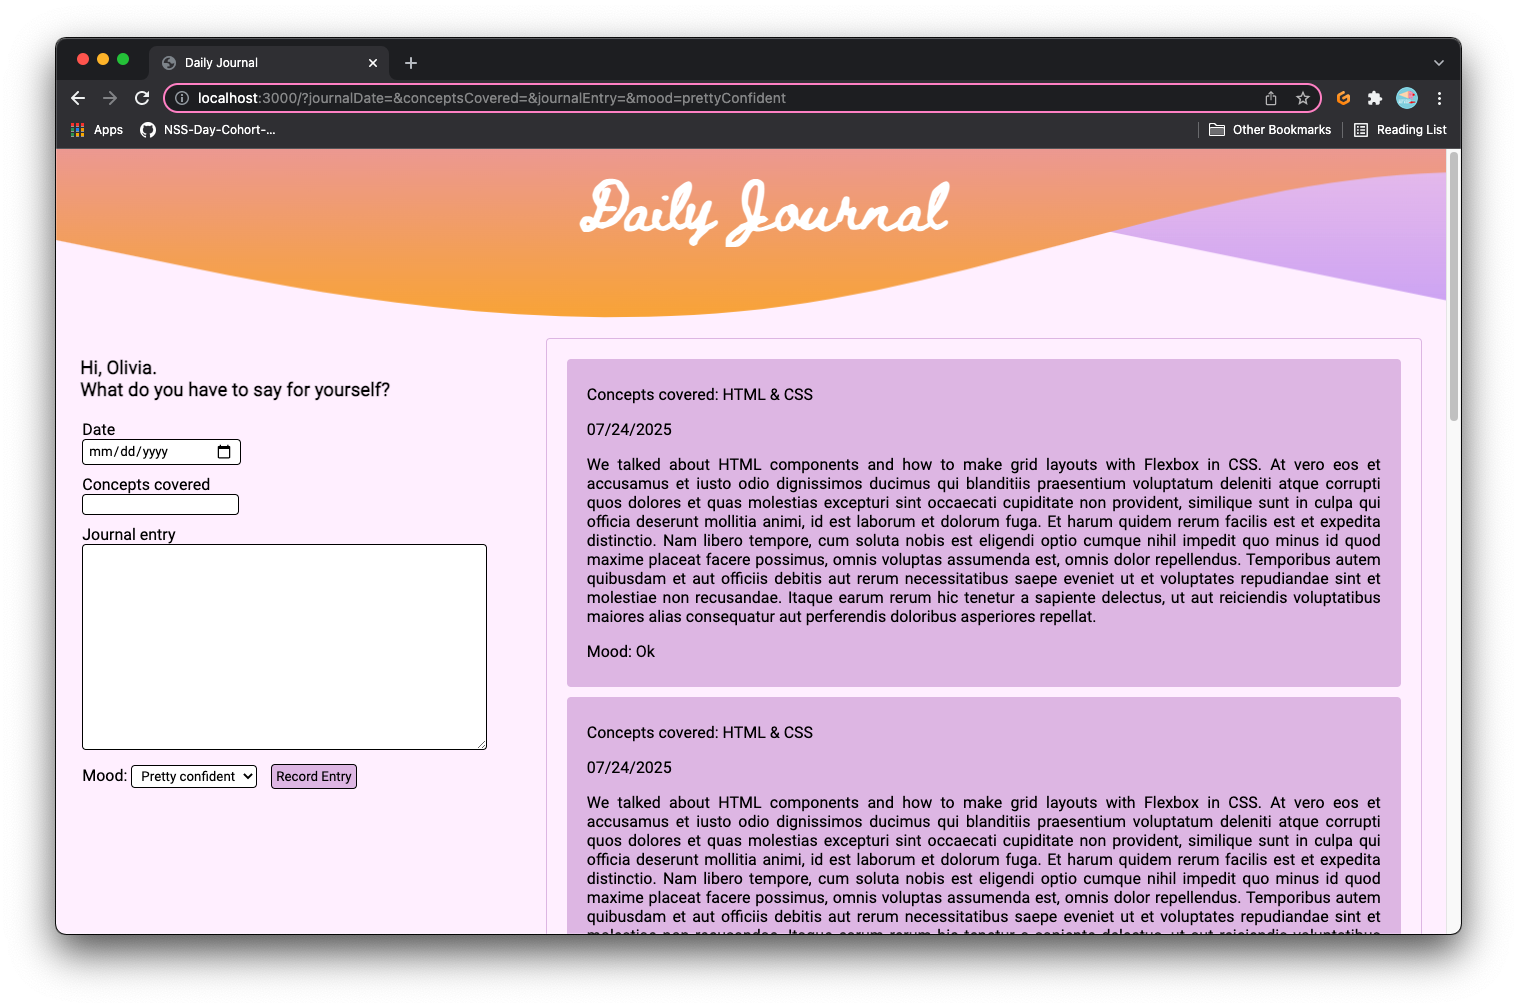
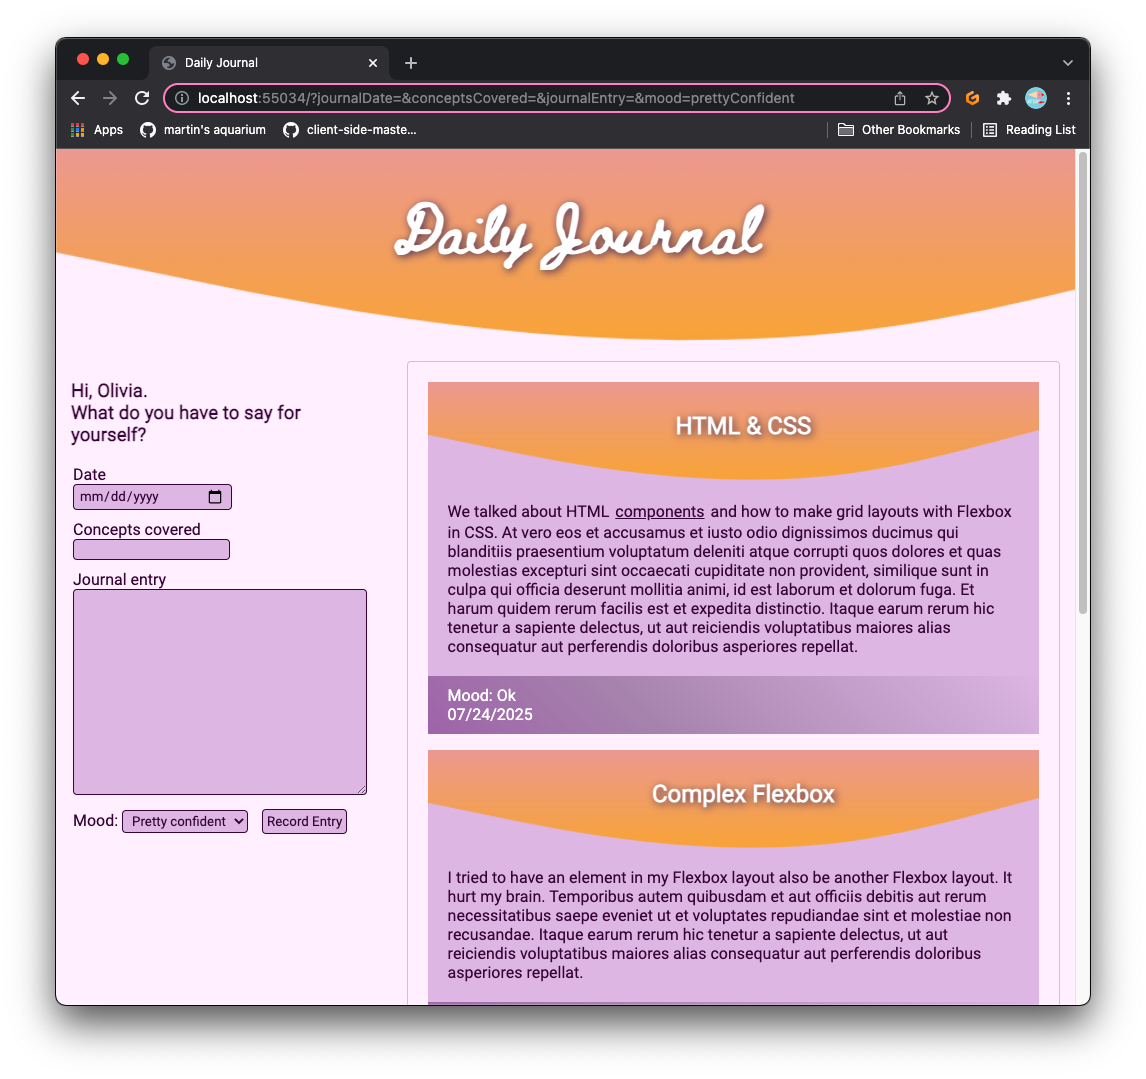
moved post data to json file, completely retooled js, refined and updated CSS, adjusted html, replaced README screenshot with an updated version

diff --git a/src/styles/main.css b/src/styles/main.css
@@ -4,9 +4,25 @@ body {
     background-color: #FFF1FF;
     font-family: 'Roboto', sans-serif;
     margin: 0;
+    color: #3e013e;
 }
 
-header {
+/* links */
+
+a:link, a:visited {
+    color: #3e013e;
+    padding: 2px 2px;    
+    display: inline-block;
+  }
+  
+  a:hover, a:active {
+    background-color: #a86eb3;
+    color: white;
+    text-decoration: none;
+    border-radius: 4px;
+  }
+
+.document__header {
     background: rgb(228, 152, 243);
     background: linear-gradient(45deg, rgba(168,110,179,1) 0%, rgba(175,142,181,1) 35%, rgba(225,190,231,1) 100%);
     background-image: url("/images/wave.png");
@@ -15,7 +31,8 @@ header {
     padding-left: 20px;
     padding-bottom: 28px;
     margin-top: 0;
-    padding-top: 2px;
+    padding-top: 25px;
+    text-shadow: 2px 2px 8px #5b3d61;
 }
 
 h1 {
@@ -48,16 +65,7 @@ main {
     vertical-align: top;
 }
 
-/* .column_3 {
-    border: 1px solid #E1BEE7;
-    border-radius: 4px;
-    width: 30%;
-    padding: 20px;
-    vertical-align: top;
-    text-align: justify;
-} */
-
-  footer {
+.document__footer {
     background: rgb(168, 110, 179);
     background: linear-gradient(45deg, rgba(168,110,179,1) 0%, rgba(175,142,181,1) 35%, rgba(225,190,231,1) 100%);
     border-radius: 4px;
@@ -65,17 +73,13 @@ main {
     color: #ffffff;
 }
 
+
+/* form styling */
+
 form {
     display: flex;
     flex-direction: column;
 }
-
-ul {
-    list-style-position: inside;
-    padding-left: 0;
-}
-
-/* form styling */
 
 fieldset {
     border: none;
@@ -84,69 +88,102 @@ fieldset {
 
 #journalDate {
     margin-bottom: 10px;
-    border: 1px solid #000000;
+    border: 1px solid #3e013e;
     border-radius: 4px;
     padding: 2px 5px;
     font-family: 'Roboto', sans-serif;
-    background-color: #ffffff;
+    background-color: #E1BEE7;
+    color: #3e013e;
 }
 
 #conceptsCovered {
     margin-bottom: 10px;
-    border: 1px solid #000000;
+    border: 1px solid #3e013e;
     border-radius: 4px;
     padding: 2px 5px;
     font-family: 'Roboto', sans-serif;
-    background-color: #ffffff;
+    background-color: #E1BEE7;
+    color: #3e013e;
 }
 
 #journalEntry {
     width: 100%;
     height: 200px;
     margin-bottom: 10px;
-    border: 1px solid #000000;
+    border: 1px solid #3e013e;
     border-radius: 4px;
     padding: 2px 5px;
     font-family: 'Roboto', sans-serif;
-    background-color: #ffffff;
+    background-color: #E1BEE7;
+    color: #3e013e;
 }
 
 #mood {
-    border: 1px solid #000000;
+    border: 1px solid #3e013e;
     border-radius: 4px;
     padding: 2px 5px;
     font-family: 'Roboto', sans-serif;
-    background-color: #ffffff;
+    background-color: #E1BEE7;
+    color: #3e013e;
 }
 
+/* buttons */
 #recordEntry, #delete {
-    border: 1px solid #000000;
+    border: 1px solid #3e013e;
     border-radius: 4px;
     padding: 4px;
     margin-left: 10px;
     font-family: 'Roboto', sans-serif;
     background-color: #E1BEE7;
+    color: #3e013e;
 }
 
-#edit {
-    border: 1px solid #000000;
+#recordEntry:active, #delete:hover {
+    box-shadow: 5px 5px #3e013e;
+}
+
+/* #edit {
+    border: 1px solid #3e013e;
     border-radius: 4px;
     padding: 4px;
     font-family: 'Roboto', sans-serif;
     background-color: #E1BEE7;
-}
-
-/* TODO finish styling links */
-a {
     color: #3e013e;
+} */
+
+/* #edit:active, #edit:hover {
+    box-shadow: 5px 5px #3e013e;
+} */
+
+/* post styling */
+
+.post {
+    margin-bottom: 1em;
+    background-color: #E1BEE7;
 }
 
-/* entry cards */
+.post__header {
+    background: rgb(228, 152, 243);
+    background: linear-gradient(45deg, rgba(168,110,179,1) 0%, rgba(175,142,181,1) 35%, rgba(225,190,231,1) 100%);
+    background-image: url("/images/wave.png");
+    background-repeat: no-repeat;
+    background-size: cover;
+    padding-left: 20px;
+    padding-top: 10px;
+    padding-bottom: 20px;
+    margin-top: 0;
+    text-align: center;
+    color: #ffffff;
+    text-shadow: 2px 2px 8px #5b3d61;
+}
 
-#entry_card_container {
-    background-color: #E1BEE7;
-    border-radius: 4px;
-    margin-bottom: 10px;
+.post__body {
+    padding: 20px;
+}
+
+.post__footer {
+    background: rgb(168, 110, 179);
+    background: linear-gradient(45deg, rgba(168,110,179,1) 0%, rgba(175,142,181,1) 35%, rgba(225,190,231,1) 100%);
     padding: 10px 20px;
-    text-align: justify;
+    color: #ffffff;
 }

diff --git a/index.html b/index.html
@@ -6,11 +6,11 @@
     <meta http-equiv="X-UA-Compatible" content="IE=edge">
     <meta name="viewport" content="width=device-width, initial-scale=1.0">
     <title>Daily Journal</title>
-    <link rel="stylesheet" href="styles/main.css" />
+    <link rel="stylesheet" href="src/styles/main.css" />
 </head>
 
 <body>
-    <header>
+    <header class="document__header">
         <h1>Daily Journal</h1>
     </header>
 
@@ -44,10 +44,11 @@
         </section>
 
         <section class="column_2">
-            <div id="entryLog"></div>
-  
+            
+            <section class="postList"></section>
+                     
         </section>
-
+            
             <!-- <form>
                 <fieldset>
                     <input type="submit" value="Edit" id="edit">
@@ -57,11 +58,11 @@
 
     </main>
 
-    <footer>
+    <footer class="document__footer">
         &copy; 2022 Olivia Lind &bullet; <a href="https://github.com/eo-lind" target="_blank">GitHub</a>
     </footer>
 
-    <script type="module" src="./scripts/main.js"></script>
+    <script type="module" src="src/scripts/main.js"></script>
 </body>
 
 </html>

diff --git a/src/scripts/main.js b/src/scripts/main.js
@@ -1,0 +1,23 @@
+import { getPosts } from "./data/DataManager.js";
+import { PostList } from "./feed/PostList.js";
+
+const showPostList = () => {
+    //Get a reference to the location on the DOM where the list will display
+    const postElement = document.querySelector(".postList");
+    getPosts().then((allPosts) => {
+        postElement.innerHTML = PostList(allPosts);
+    })
+}
+
+/**
+ * Main logic module for what should happen on initial page load for the journal
+ */
+
+const startJournal = () => {
+    const postElement = document.querySelector(".postList");
+	postElement.innerHTML = "Hello. This is a test."
+}
+
+startJournal();
+
+showPostList()

diff --git a/src/scripts/feed/Post.js b/src/scripts/feed/Post.js
@@ -1,0 +1,16 @@
+
+  export const Post = (postObject) => {
+    return `
+      <section class="post">
+        <header class="post__header">
+            <h2>${postObject.concept}</h2>
+        </header>
+        <div class="post__body">${postObject.entry}</div>
+        <footer class="post__footer">
+            <div>Mood: ${postObject.mood}</div>
+            <div>${postObject.timestamp}</div>
+        </footer>
+      </section>
+    `
+  }
+

diff --git a/src/scripts/feed/PostList.js b/src/scripts/feed/PostList.js
@@ -1,0 +1,11 @@
+import { Post } from "./Post.js";
+
+export const PostList = (allPosts) => {
+	let postHTML = "";
+		//Loop over the array of posts and for each one, invoke the Post component which returns HTML representation
+		for (const postObject of allPosts) {
+			postHTML += Post(postObject)
+		}
+		return postHTML;
+	
+}

diff --git a/src/scripts/data/DataManager.js b/src/scripts/data/DataManager.js
@@ -1,0 +1,10 @@
+export const getPosts = () => {
+
+    return fetch("http://localhost:8088/posts")
+    .then(response => response.json())
+    .then(parsedResponse => {
+        console.log(parsedResponse)
+        return parsedResponse;
+    })
+}
+
